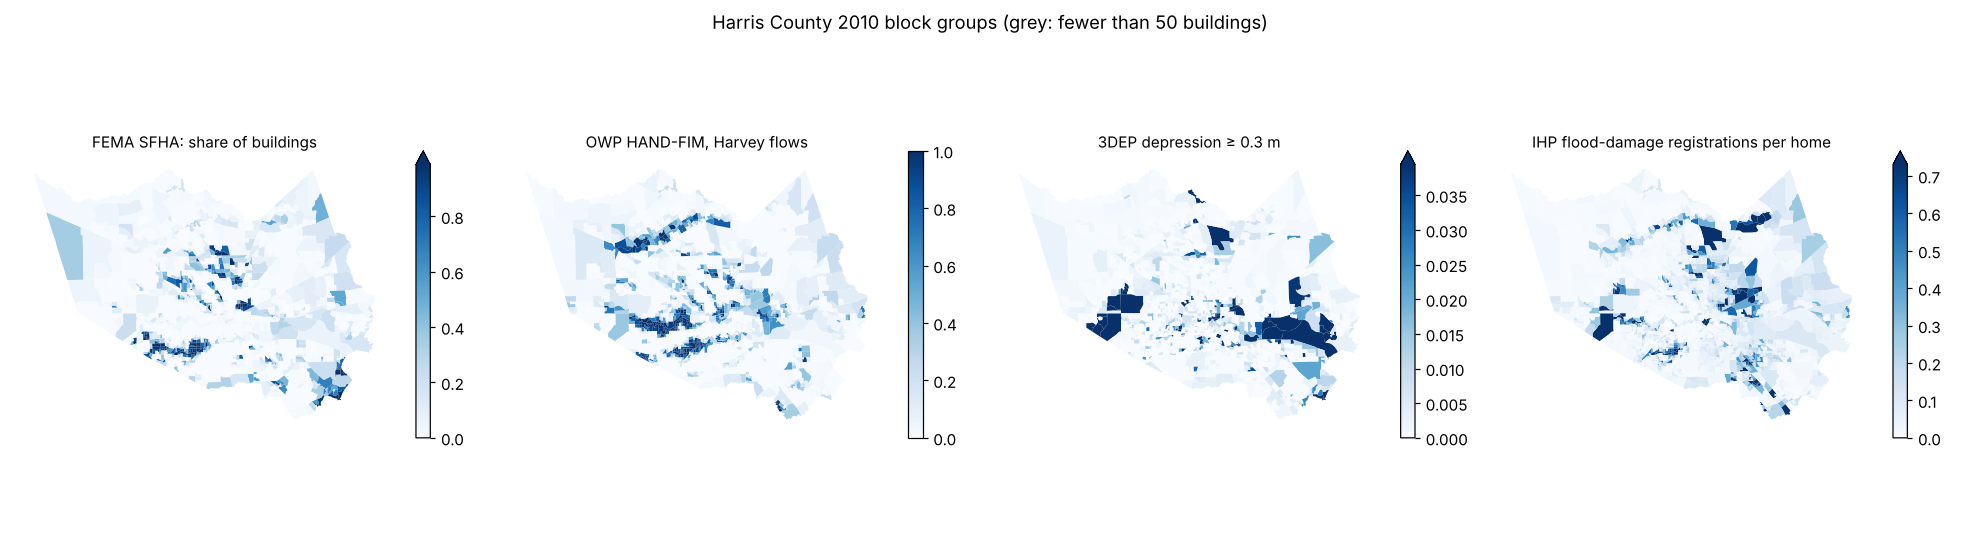
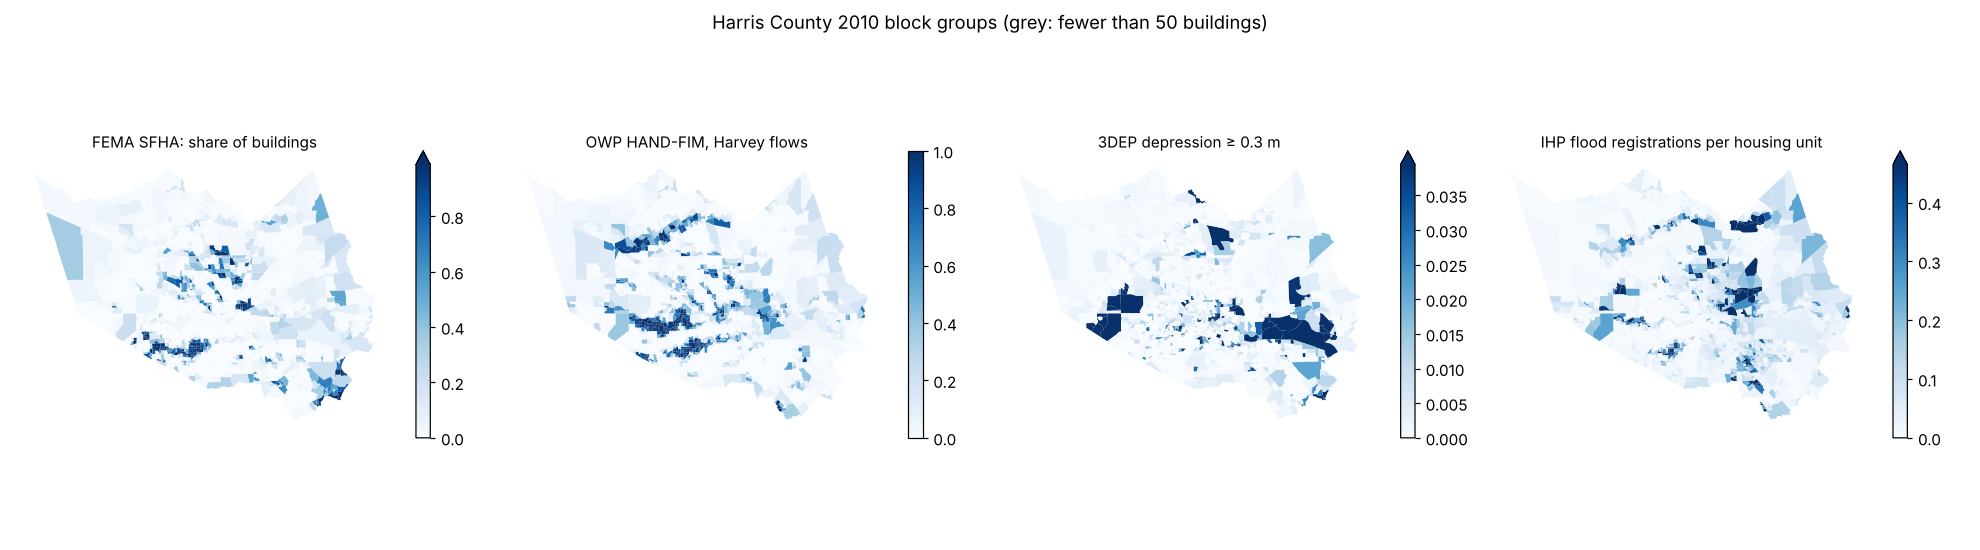
open-flood-layer-vs-nfhl: README, housing-unit IHP key, conclusions and refresh table
Claude-Session: https://claude.ai/code/session_01867zdYxz469dSRCf1pRq5L

diff --git a/open-flood-layer-vs-nfhl/notebook.py b/open-flood-layer-vs-nfhl/notebook.py
@@ -179,7 +179,7 @@ def _(mo):
     one. We work in 2010 block groups (dropping water-only ones) and move each 2020-only code to
     the 2010 block group holding most of its buildings.
 
-    Buildings come from the USACE National Structure Inventory (NSI), about 1.2 million points
+    Buildings come from the USACE National Structure Inventory (NSI), about 1.45 million points
     in Harris County. Each layer is scored by the share of a block group's NSI buildings it flags,
     so a block group's score doesn't depend on its size.
     """)
@@ -488,8 +488,10 @@ def _(mo):
     depression in the 3DEP 1/3 arc-second (about 10 m) DEM with WhiteboxTools and flags a building
     whose ground sits **0.3 m (1 ft) or more below the depression's spill level**.
 
-    Atlas 14 rainfall is meant to say which depressions fill. We sample NOAA's 100-year, 24-hour
-    depth across the county to see how much it varies.
+    Atlas 14 rainfall was meant to say which depressions fill. We sample NOAA's 100-year, 24-hour
+    depth across the county to see how much it varies. It turns out nearly flat across the county
+    and far below Harvey's totals, so it can't rank one depression above another, and the proxy
+    uses depth alone.
     """)
 
 
@@ -816,9 +818,9 @@ def _(KEYS, LAYERS, plt, results, scores):
         _ax.set_xlabel(_label)
         _ax.set_yticks(range(len(_keys)), _keys)
     _axes[0].invert_yaxis()
-    _axes[1].legend(fontsize=8, loc="lower right")
+    _fig.legend(*_axes[0].get_legend_handles_labels(), loc="lower center", ncol=4, fontsize=9)
     _fig.suptitle("Harris County block groups, Hurricane Harvey: each layer's share of flagged buildings vs damage")
-    _fig.tight_layout()
+    _fig.tight_layout(rect=(0, 0.09, 1, 1))
     _fig.savefig(results / "scores.png", dpi=130)
     _fig
     return
@@ -867,7 +869,7 @@ def _(KEYS, flags, pd, results, spearmanr):
 def _(KEYS, bg, block_groups, plt, results):
     _label, _rate, _keep = KEYS["ihp_per_unit"]
     _m = block_groups.set_index("bg").join(bg[["sfha", "hand_fim", "sink_30cm"]]).assign(key=_rate.where(_keep))
-    _fig, _axes = plt.subplots(1, 4, figsize=(18, 5))
+    _fig, _axes = plt.subplots(1, 4, figsize=(18, 4.2))
     for _ax, (_col, _title) in zip(
         _axes,
         [
@@ -926,6 +928,49 @@ def _(KEYS, LAYERS, bg, block_groups, pd, results):
     worst.round(3).to_csv(results / "worst_block_groups.csv", index=False)
     worst[worst.layer.isin(["FEMA SFHA", "OWP HAND-FIM, Harvey flows", "3DEP depression ≥ 0.3 m"])].round(2)
     return (worst,)
+
+
+@app.cell
+def _(mo):
+    mo.md(r"""
+    ## 10. What this shows, and what didn't work
+
+    **No open layer beats the SFHA here.** Read the scores table by its "minus SFHA" columns:
+    an interval entirely below zero means the layer ranks block groups worse than FEMA's map.
+
+    - **Static open layers carry almost no signal at block-group level.** Low HAND, at the SFHA's
+      share or any other cut-off in the sweep, barely tracks damage. Harris County is flat and
+      laced with small NWM channels, so "low above the nearest stream" is everywhere. The 3DEP
+      depression proxy is no better. Atlas 14 can't help it, since it varies little across the
+      county.
+    - **HAND only works once it knows the flow.** Driven by Harvey's simulated peak flows,
+      HAND-FIM ties the SFHA on river claims and loses on the rest. That is an event map drawn
+      with hindsight flows, not a hazard map anyone could have had in advance.
+    - **Its worst misses trace to the flows, not the terrain.** NWM simulated Buffalo Bayou
+      below Addicks and Barker at 12–18 times its gauged peak, because the model doesn't hold
+      water behind the dams. The false alarms along Buffalo Bayou follow from that. Where NWM
+      under-ran the gauges (Vince Bayou at 0.16×), HAND-FIM misses the flooded block groups
+      nearby.
+    - **The SFHA's own misses are places no 1% riverine map would catch:** neighbourhoods in
+      the Addicks reservoir pool, east Houston and the Clear Creek corridor. That is where an
+      open layer would have to earn its place.
+
+    **Refresh speed.** Harris County's FIRMs date from 2007, and 26% of today's buildings sit
+    on panels revised after Harvey (2019). The county-wide remap (MAAPnext) issued preliminary
+    data in February 2026, with appeals scheduled for 2027 and effective maps not expected
+    before 2028. The open inputs move faster:
+
+    | Layer | Source cadence | Rebuild cost |
+    |---|---|---|
+    | FEMA NFHL | Countywide restudy every 10–20 years; LOMRs in between | Engineering study, years |
+    | OWP HAND | New HAND-FIM releases each year (4.9.9.0, April 2026) | OWP's open pipeline, per HUC8 |
+    | NWM flows | Operational run every hour; here, the 1979–2023 retrospective | Seconds to read Harvey's peaks |
+    | 3DEP depressions | When new lidar reaches 3DEP (Harris tiles republished 2026) | About a minute on 4 CPUs |
+    | Atlas 14 | Texas volume 11, 2018; Atlas 15 in progress | None; a lookup |
+
+    Faster refresh doesn't help a layer that ranks damage worse, though. On this evidence an
+    open layer is a complement to the SFHA, mainly as an event map once flows are known.
+    """)
 
 
 @app.cell

diff --git a/open-flood-layer-vs-nfhl/README.md b/open-flood-layer-vs-nfhl/README.md
@@ -1,0 +1,94 @@
+# Can an open flood layer beat FEMA's flood map at finding Harvey's damage?
+
+FEMA's flood map (the NFHL, and its 1%-a-year Special Flood Hazard Area, the SFHA) is slow to update: Harris County's dates from 2007. This spike asks whether a layer built only from open terrain, hydrology and rainfall data ranks places by observed flood damage better than the SFHA does. The test is Harris County, Texas, in Hurricane Harvey (August 2017), at census block group level, the finest unit public damage data allows.
+
+**Short answer: no.** No open layer we built beats the SFHA on any answer key.
+
+- **Static open layers carry almost no signal.** Neither low height above the nearest stream (HAND) nor 3DEP depressions ranks block groups much better than chance. That holds at every cut-off we tried.
+- **HAND works only once it is given the flow.** Driven by the National Water Model's simulated Harvey peaks, OWP's HAND flood map *ties* the SFHA on river claims and loses on the other keys. That is an event map drawn with hindsight flows, not a hazard map anyone had beforehand.
+- **Its worst errors come from the flows.** NWM ran Buffalo Bayou below the Addicks and Barker dams at 12–18 times its gauged peak, because it doesn't hold water behind the dams.
+
+## How to run it
+
+```bash
+./run.sh     # needs uv; about 25 minutes and 1.9 GB of downloads the first time, under 5 minutes after
+```
+
+`run.sh` runs `notebook.py` as a script, so every number below comes from code a reader can see. To read it with its outputs, run `uv run marimo edit notebook.py`. Downloads are cached in `$OFL_CACHE` (default `~/.cache/open-flood-layer-vs-nfhl`). Results go to `results/`.
+
+## Data (all public, downloaded at run time, nothing committed)
+
+| What | Source |
+|---|---|
+| Units | 2010 TIGER block groups, Harris County: 2,144 with land. TIGER 2020 block groups are used to crosswalk NFIP codes. |
+| Buildings | USACE National Structure Inventory API, county 48201: 1,454,342 buildings, 1.96 M housing units |
+| Baseline | FEMA NFHL county extract `48201C` from the Map Service Center (current; 26% of buildings sit on panels revised after Harvey) |
+| HAND | NOAA OWP HAND-FIM 4.9.9.0, CIROH public mirror, 10 HUC8s; 10 m HAND, catchments and rating curves |
+| Flows | NWM v3.0 retrospective on AWS: peak flow 25 Aug – 5 Sep 2017 for 3,430 reaches, checked against 47 USGS gauges |
+| Depressions | USGS 3DEP 1/3 arc-second DEM; WhiteboxTools `depth_in_sink` |
+| Rainfall | NOAA Atlas 14 PFDS, 100-year 24-hour depth at 12 points: 15.1–18.1 in |
+| Answer key 1 | OpenFEMA `NfipClaims` v3, Harvey: 42,400 paid claims (cause 2 river 13,816; cause 4 rainfall 19,585). `NfipPolicies` v3: 237,383 policies in force on 25 Aug 2017. |
+| Answer key 2 | OpenFEMA `IndividualsAndHouseholdsProgramValidRegistrations` v2, DR-4332: 449,326 registrations, 103,538 with `floodDamage` |
+
+## Method
+
+Every layer scores a block group by the **share of its NSI buildings it flags**:
+
+1. **FEMA SFHA**, and SFHA plus the 0.2% zone.
+2. **Low HAND**: the cut-off (3.12 m) is set so it flags exactly the SFHA's share of buildings (8.9%).
+3. **HAND-FIM, Harvey flows**: each reach's Harvey peak flow, run through OWP's rating curve, gives a stage. A building is flagged if its HAND is at or below that stage (14.3% of buildings).
+4. **3DEP depression ≥ 0.3 m** (0.6% of buildings). Atlas 14 varies too little across the county to rank depressions, so depth alone is used.
+5. **HAND-FIM or depression**, and **low HAND or depression**.
+
+The keys are paid claims per policy (all causes, river and rainfall), paid claims per NSI building, and IHP flood-damage registrations per housing unit. We score them with Spearman ρ and AUC for the worst-hit fifth of block groups, using 500 bootstrap resamples. Differences from the SFHA are paired on the same resamples.
+
+## Results (from a clean run on 2026-10-23)
+
+Spearman ρ / AUC per layer and key. ▼ means worse than the SFHA (the 95% interval of the paired difference is below zero); = means no detectable difference. No layer scored ▲. Per-policy keys cover the 1,639 block groups with at least 25 policies, the others 2,135–2,140 block groups.
+
+| Layer | Claims / policy | River claims / policy | Rain claims / policy | Claims / building | IHP flood / unit |
+|---|---|---|---|---|---|
+| **FEMA SFHA** | **0.38 / 0.71** | **0.35 / 0.71** | **0.34 / 0.68** | **0.45 / 0.77** | **0.34 / 0.69** |
+| FEMA SFHA + 0.2% | 0.37 / 0.70 = | 0.35 / 0.70 = | 0.35 / 0.68 = | 0.44 / 0.78 = | 0.34 / 0.70 = |
+| OWP low HAND (SFHA's share) | 0.00 / 0.48 ▼ | 0.02 / 0.50 ▼ | 0.00 / 0.47 ▼ | 0.03 / 0.50 ▼ | 0.02 / 0.50 ▼ |
+| OWP HAND-FIM, Harvey flows | 0.29 / 0.68 ▼ | 0.33 / 0.72 = | 0.25 / 0.63 ▼ | 0.33 / 0.72 ▼ | 0.19 / 0.65 ▼ |
+| 3DEP depression ≥ 0.3 m | 0.12 / 0.53 ▼ | 0.12 / 0.54 ▼ | 0.11 / 0.53 ▼ | 0.07 / 0.54 ▼ | 0.03 / 0.52 ▼ |
+| HAND-FIM or depression | 0.31 / 0.69 ▼ | 0.35 / 0.73 = | 0.27 / 0.64 ▼ | 0.34 / 0.74 ▼ | 0.19 / 0.66 ▼ |
+
+The closest result: on river claims, HAND-FIM or depression minus the SFHA is ρ −0.01 (−0.05 to +0.05) and AUC +0.02 (−0.02 to +0.06). The SFHA's own intervals are about ±0.04 on ρ. Full table with intervals: `results/scores.csv`. Chart: `results/scores.png`. Maps: `results/maps.png`.
+
+**Cut-off sweep** (`results/sensitivity.csv`). Static HAND at 0.5–3 m gives ρ of −0.02 to 0.04 against both per-building keys. Only HAND ≤ 8 m, which flags 59% of buildings, reaches 0.20–0.25. Depressions of any depth reach 0.14 against IHP and 0.02 against claims. The SFHA scores 0.45 and 0.34.
+
+**NWM flows vs gauges** (`results/nwm_vs_usgs.csv`). Across 47 gauged reaches, NWM's median Harvey peak is 1.71× the observed peak. Only 51% are within a factor of 2. Buffalo Bayou below Addicks/Barker runs 11.8–17.9× high, and Vince Bayou 0.16×.
+
+**Where layers go most wrong** (`results/worst_block_groups.csv`, IHP key; the reasons are our reading of locations and the gauge table):
+
+- *SFHA misses:* heavily damaged block groups with no SFHA. They sit near the Addicks reservoir pool (29.84, −95.63, where 46% of buildings fall in a ≥ 0.3 m depression), in east Houston (29.84, −95.20 to −95.27) and along Clear Creek (29.52–29.54, −95.18). None is a 1% riverine floodplain.
+- *SFHA false alarms:* mostly SFHA block groups with insured, little-damaged homes, such as 29.71, −95.44, with 289 policies and 2 claims.
+- *HAND-FIM false alarms:* the Buffalo Bayou corridor (29.75–29.78, −95.48 to −95.50), fully flagged because NWM's flows there are 12× too high.
+- *HAND-FIM misses:* south-east block groups (29.59–29.65, −95.20 to −95.23) near Vince and Berry Bayous, where NWM under-ran the flows.
+
+**Run time and cost:** 7.4 minutes with a warm cache. The first run adds about 15–20 minutes of downloads, mostly the 1.3 GB NSI GeoJSON and about 430 OpenFEMA pages. Cache: 1.9 GB. Cost: $0, since every source is free and nothing uses a paid service.
+
+## Refresh speed
+
+| Layer | How fast it could refresh |
+|---|---|
+| FEMA NFHL | Countywide restudy every 10–20 years, plus letters of map revision. Harris County's MAAPnext preliminary data came out in February 2026, and effective maps are not expected before 2028. |
+| OWP HAND | New HAND-FIM releases each year (4.9.9.0 in April 2026), built from 3DEP and the NWM hydrofabric with OWP's open pipeline |
+| NWM flows | Operational analysis and forecasts every hour, which the NWS flood inundation maps already use. This spike uses the retrospective. |
+| 3DEP depressions | Whenever new lidar reaches 3DEP. Recomputing for the county took about a minute here. |
+| Atlas 14 | Texas volume 2018; Atlas 15 is in progress |
+
+## What it doesn't show
+
+- **No lot- or parcel-level claim follows.** Everything here is block-group shares and rates.
+- **Answer-key biases.** NFIP policies cluster in the SFHA because of the mandatory-purchase rule, and take-up outside it is low, which favours the SFHA on per-policy keys. IHP counts registrations, not measured damage. People had to apply, renters register, and insured owners often don't.
+- **Vintage mismatches.** The NFHL, NSI (2022), 3DEP (republished 2026) and HAND are all current, not August 2017. 17% of claims and 19% of policies carry 2020 block-group codes, which we crosswalk to 2010 through NSI buildings.
+- **Harvey exceeded the 1% event** across much of the county. A 1% map is not expected to contain it, so these are rankings, not hit rates.
+- **One event, one county.** A second event (for example Tropical Storm Imelda, 2019) is split off as a sub-issue.
+- **No 1%-flow HAND map.** OWP's recurrence flows sit in a requester-pays bucket, and the retrospective archive is too big to fit 100-year flows from in this spike.
+
+## What we looked at first
+
+We reused the OWP HAND handling from `flash-flood-warning-addresses/`. We used OpenFEMA, NWM Zarr, WhiteboxTools, geopandas and rasterio rather than writing our own. FEMA's NFHL map service dropped large pages, so we use the county extract from the Map Service Center. OpenFEMA times out on deep pages and `$inlinecount`, so queries go one day (IHP) or three days (policies) at a time.
